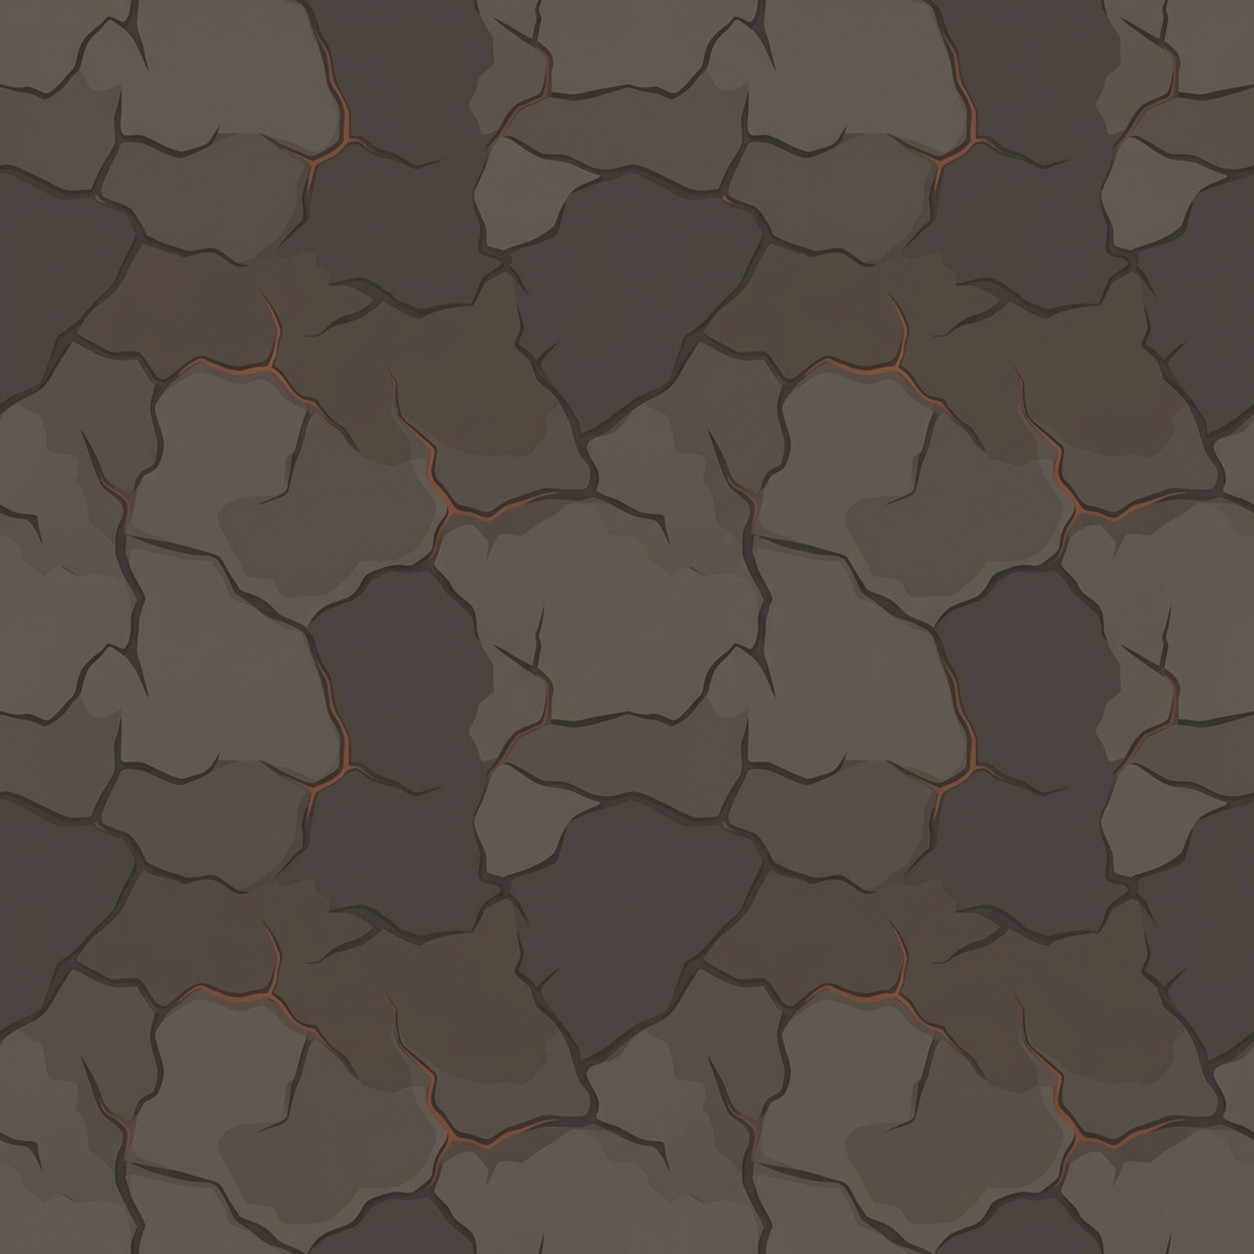
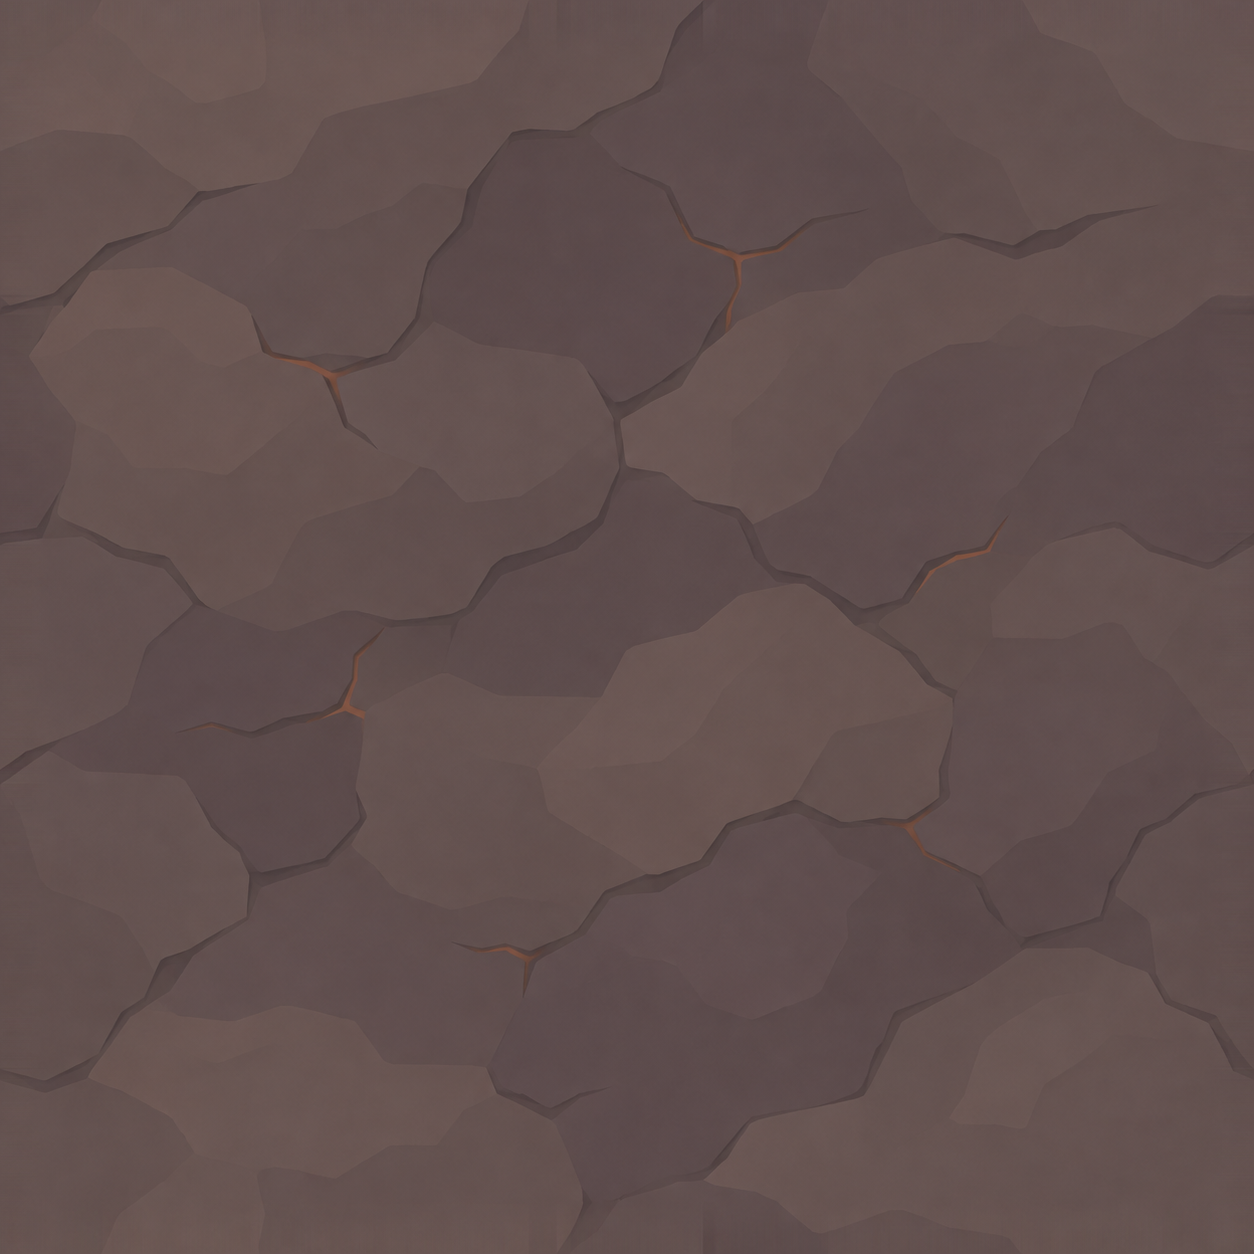
feat(art): 차원문 전투 바닥에 무광 암반 타일 적용

diff --git a/.art/PRODUCTION-STATUS.md b/.art/PRODUCTION-STATUS.md
@@ -205,7 +205,7 @@
 | `Adventure/gate_adventure_icon.png` | 클라이언트 PR (이슈 #508) | **모험 화면 검수 대기.** 5·6단계 지도와 같은 무광 석재를 적용하고 주황 불꽃과 보라 번개를 유지했다. 256×183 RGBA와 GateAdventure의 Sprite 참조를 확인했다. 32px와 64px에서 원소 모양을 구분할 수 있고 불투명 초록 픽셀과 가장자리 초록 번짐은 검출되지 않았다. |
 | `Adventure/gate_adventure_map_stage5.png` | 클라이언트 PR (이슈 #504) | **모험 화면 검수 대기.** 무광 절개면으로 회색 암반을 다시 그리고 불꽃·번개 차원문 다섯 개의 배치를 유지했다. 867×256 RGB, Stage5와 준비 화면 참조 유지. 비교한 가로 단면 6곳에서 길 중심 차이는 최대 2px이고 폭은 기존 79–83px에서 19–21px로 줄었다. |
 | `Adventure/gate_adventure_map_stage6.png` | 클라이언트 PR (이슈 #506) | **모험 화면 검수 대기.** 5단계 지도와 같은 무광 암반을 적용했다. 길 끝의 속 빈 그루터기와 주황·보라 차원문 두 개를 유지했다. 867×256 RGB와 Stage6의 Sprite 참조를 확인했다. 비교한 가로 단면 6곳에서 길 중심 차이는 최대 2.5px이고 폭은 기존 72–75px에서 21–22px로 줄었다. |
-| `Background/Gate/background.png` | 클라이언트 PR (이슈 #235) | **검수 대기, 자리표시 아트.** 차원문 모험(adventure 3) 전투 배경 theme 의 새 파일(`Background/Fortress/background.png` 와 같은 이름·크기). 1254x1254 RGB 바닥 질감. 그을린 갈라진 땅, 대비를 0.62배로 낮췄고 가장자리를 섞어 이어 붙여도 이음매가 안 보이게 했다. `GateBattleTheme.asset` 이 참조하고 `GateAdventure.asset` 의 `battleTheme` 이 이 asset 을 가리킨다. `agy` 생성, 초록 배경 key 제거. Editor 미검증 |
+| `Background/Gate/background.png` | 클라이언트 PR (이슈 #510) | **플레이 검수 대기.** 차원문 5·6단계 지도와 같은 무광 암반 면을 적용하고 어두운 균열의 밀도를 줄였다. 1254×1254 RGB와 Repeat 임포트 설정을 유지했다. 양쪽 가장자리의 RGB 값이 행·열 단위로 일치하며 2×2 반복 위에 차원문 유닛 4종을 합성해 확인했다. |
 | `Background/Gate/tree_1.png` | 클라이언트 PR (이슈 #235) | **검수 대기, 자리표시 아트.** 차원문 모험(adventure 3) 전투 배경 theme 의 새 파일(`Background/Fortress/tree_1.png` 와 같은 이름·크기). 277x242 RGBA, 꺾인 탄 줄기. `GateBattleTheme.asset` 이 참조하고 `GateAdventure.asset` 의 `battleTheme` 이 이 asset 을 가리킨다. `agy` 생성, 초록 배경 key 제거. Editor 미검증 |
 | `Background/Gate/tree_2.png` | 클라이언트 PR (이슈 #235) | **검수 대기, 자리표시 아트.** 차원문 모험(adventure 3) 전투 배경 theme 의 새 파일(`Background/Fortress/tree_2.png` 와 같은 이름·크기). 265x222 RGBA, 가지 둘 달린 탄 줄기. `GateBattleTheme.asset` 이 참조하고 `GateAdventure.asset` 의 `battleTheme` 이 이 asset 을 가리킨다. `agy` 생성, 초록 배경 key 제거. Editor 미검증 |
 | `Background/Gate/tree_3.png` | 클라이언트 PR (이슈 #235) | **검수 대기, 자리표시 아트.** 차원문 모험(adventure 3) 전투 배경 theme 의 새 파일(`Background/Fortress/tree_3.png` 와 같은 이름·크기). 234x218 RGBA, 속이 빈 탄 그루터기. `GateBattleTheme.asset` 이 참조하고 `GateAdventure.asset` 의 `battleTheme` 이 이 asset 을 가리킨다. `agy` 생성, 초록 배경 key 제거. Editor 미검증 |
